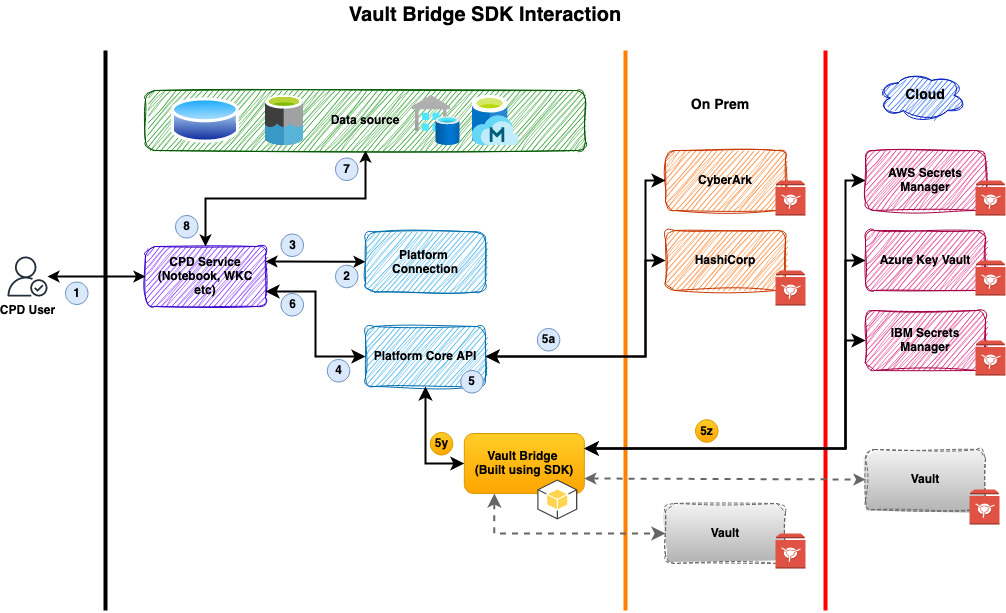
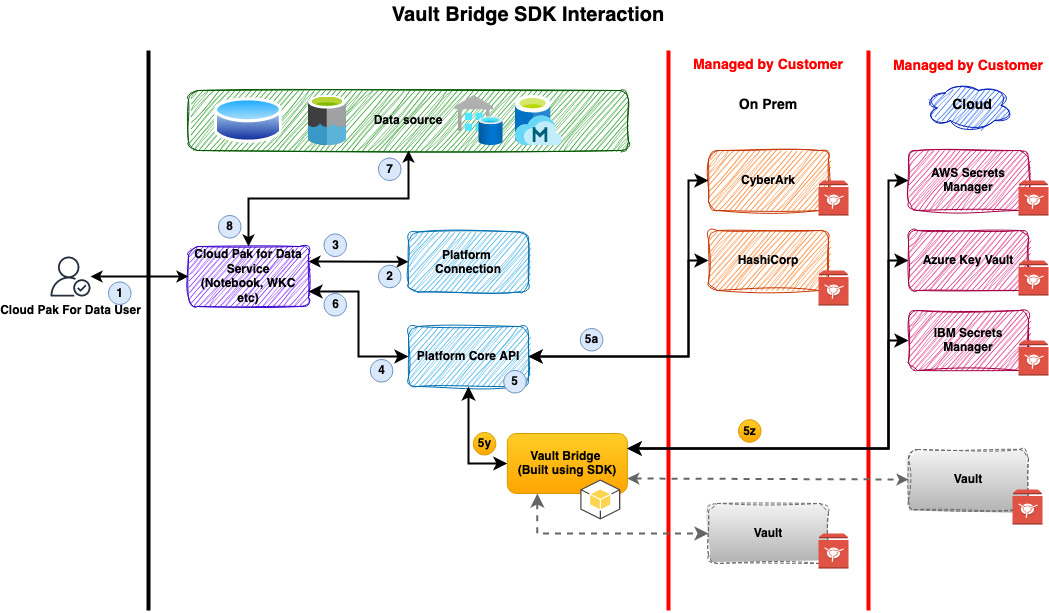
Vault bridge SDK components - documentation (#45)

diff --git a/README.md b/README.md
@@ -21,6 +21,13 @@ The following vault bridges are included in Cloud Pak for Data.
 1. CyberArk AAM
 2. HashiCorp
 
+---
+
+**NOTE** -  Cloud Pak for Data and the vault bridge SDK do not include any vaults. The vault bridge only integrates with vaults by using public APIs provided by the vault vendors. Vaults are managed by the customer. 
+
+---
+
+
 Users can use the vault bridge SDK to integrate Cloud Pak for Data with additional vaults by applying the `Build Your Own Vault Bridge` concept. The SDK improves the agility and speed to market ability of your organization by complying with security or regulatory requirements.
 
 A bridge that is developed by using the vault bridge SDK dynamically plugs in to the platform with extension and dynamically renders the user interface by using extension configuration.
@@ -52,6 +59,52 @@ The following diagram illustrates how Cloud Pak for Data users can fetch the cre
 6. Cloud Pak for Data service receives secret details.
 7. Using secret details and the connection information, Cloud Pak for Data service requests data from the data source.
 8. Cloud Pak for Data service receives the data and performs the requested operation on the retrieved data.
+
+### [2.2] Vault bridge SDK components
+
+The following diagram shows vault bridge SDK components. Some of the components reside on the platform. The SDK is implemented in Python 3 and can be installed on or outside the platform cluster. 
+
+![image](/docs/images/VaultBridgeSDKComponents.jpg)
+
+#### [2.2.1] Platform components
+
+1. Platform Core API
+
+    The Platform Core API receives a GET /v2/secrets/{secret-urn} request from Cloud Pak for Data consumers (such as services, the web client user interface, and so on). Using a secret urn (also known as secret identifier) it routes that request to the appropriate vault bridge. In the case of the bridge created using `vault bridge SDK` it delegates a request to the bridge server.
+
+2. Extensions
+
+    The vault and secret extensions dynamically plugs in the vault bridge into the `Cloud Pak for Data Platform`. These extensions define characteristics of the bridge using the following information. The UI framework dynamically generates a user interface by using the information in the extension.  
+    1. Vault extension
+        - Vault credentials information 
+        - Vault connection information
+        - Supported secret types
+    2. Secret extension
+        - Secret identifier
+
+3. JWT private key
+
+    The vault bridge SDK is secured using JSON Web Token(JWT). The `Platform Core API` generates JWT using a private key and attaches JWT to every request sent to the vault bridge server.
+
+
+#### [2.2.1] SDK components
+
+1. Vault bridge API server
+
+    The API server is implemented in Python 3 and responsible for,
+    1. Authentication.
+    2. Request validation.
+    3. Routing request to the specific bridge. 
+2. JWT public key
+
+    The vault bridge SDK is secured using JSON Web Token(JWT). Using the public key, the bridge API server validates JWT to authenticate the consumer.
+3. Vault bridge(s)
+
+    The bridge is implemented in Python 3 and responsible for:
+    1. Connecting to the vault using vault authentication information.
+    2. Requesting secret detail from the vault using secret reference data.
+
+
 
 
 ## [3] Resources

diff --git a/docs/03_developer_resources/develop_new_bridge.md b/docs/03_developer_resources/develop_new_bridge.md
@@ -15,4 +15,4 @@
 3. Define the following extensions:
     - Vault - This includes vault connection and access information
     - Secret - This includes supported secret types and secret identifier
-4. Develop a bridge using vault bridge SDK by implementing the API with [this specification](/swagger/api.yaml).
+4. Develop a bridge using vault bridge SDK by implementing the API with [this specification](/docs/api.yaml).
